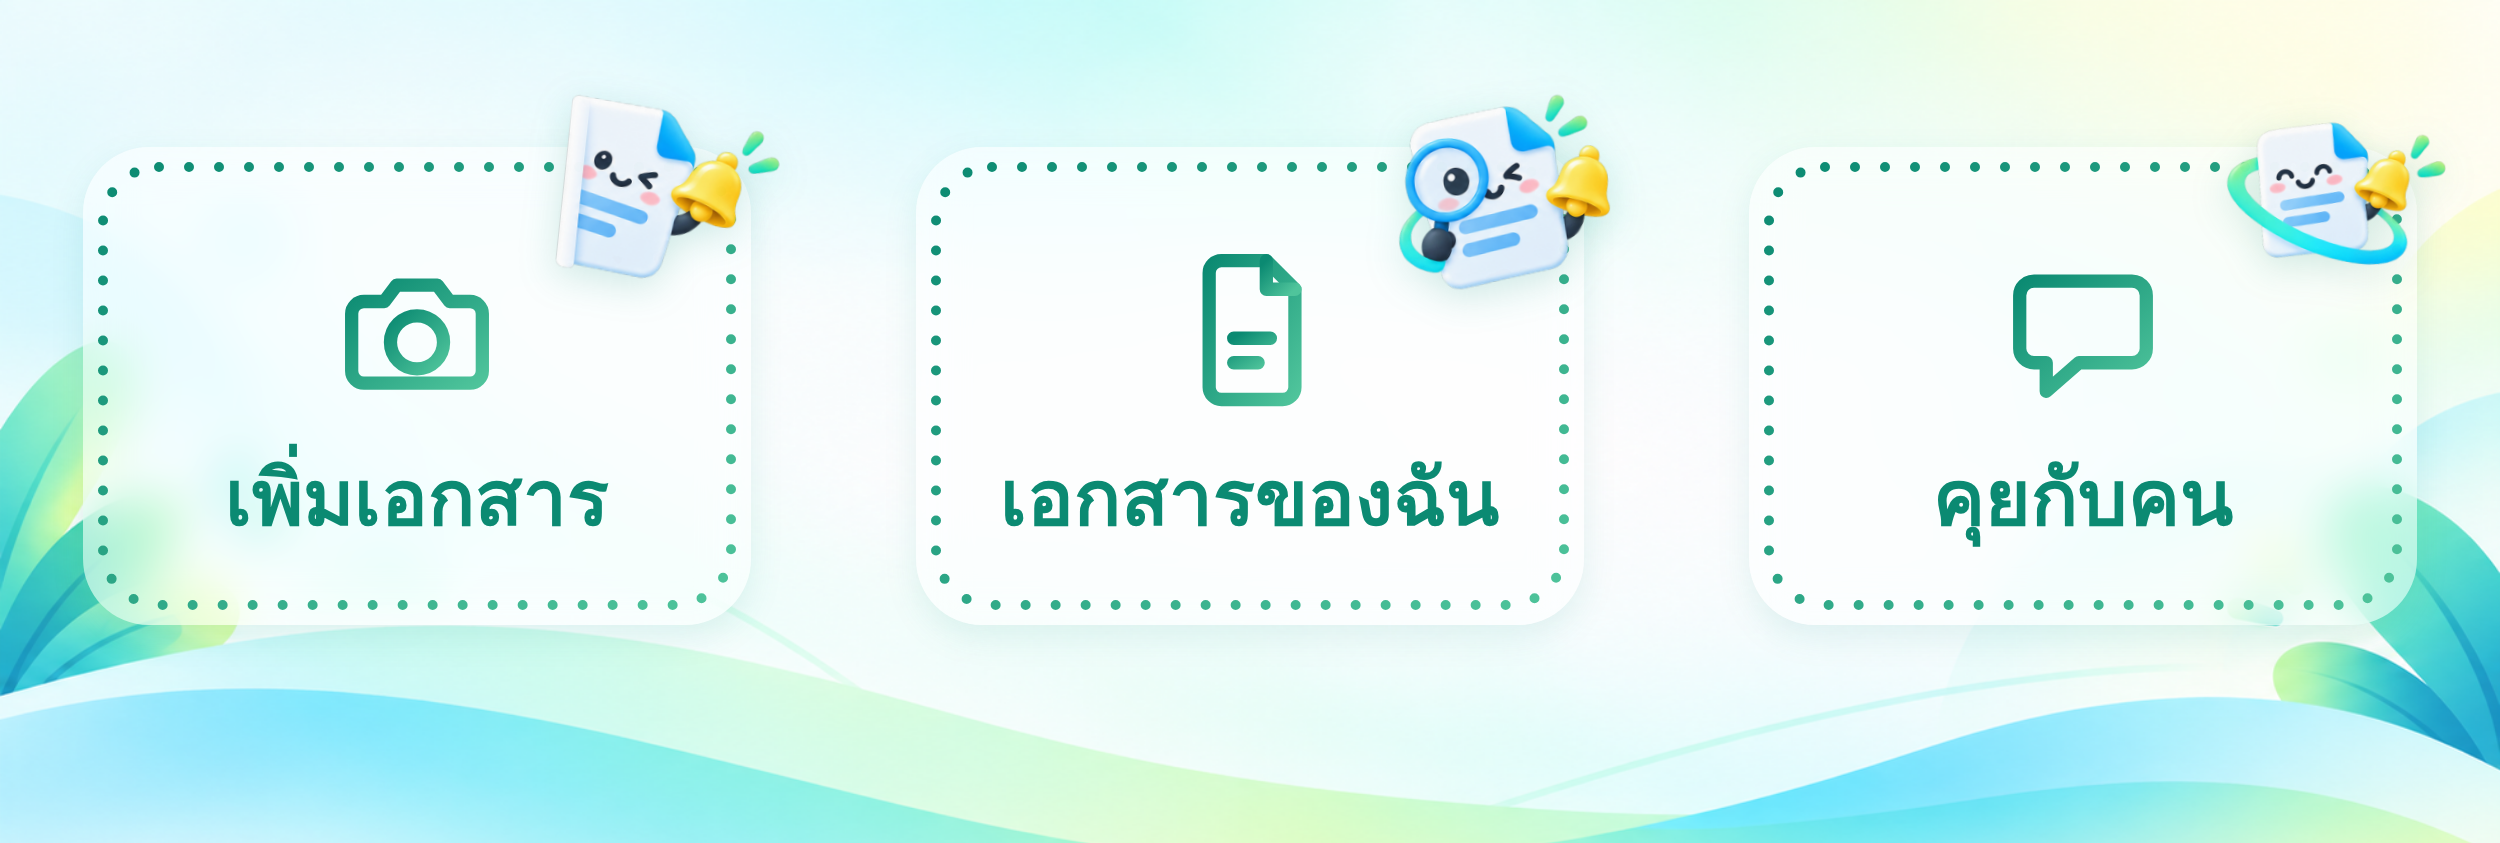
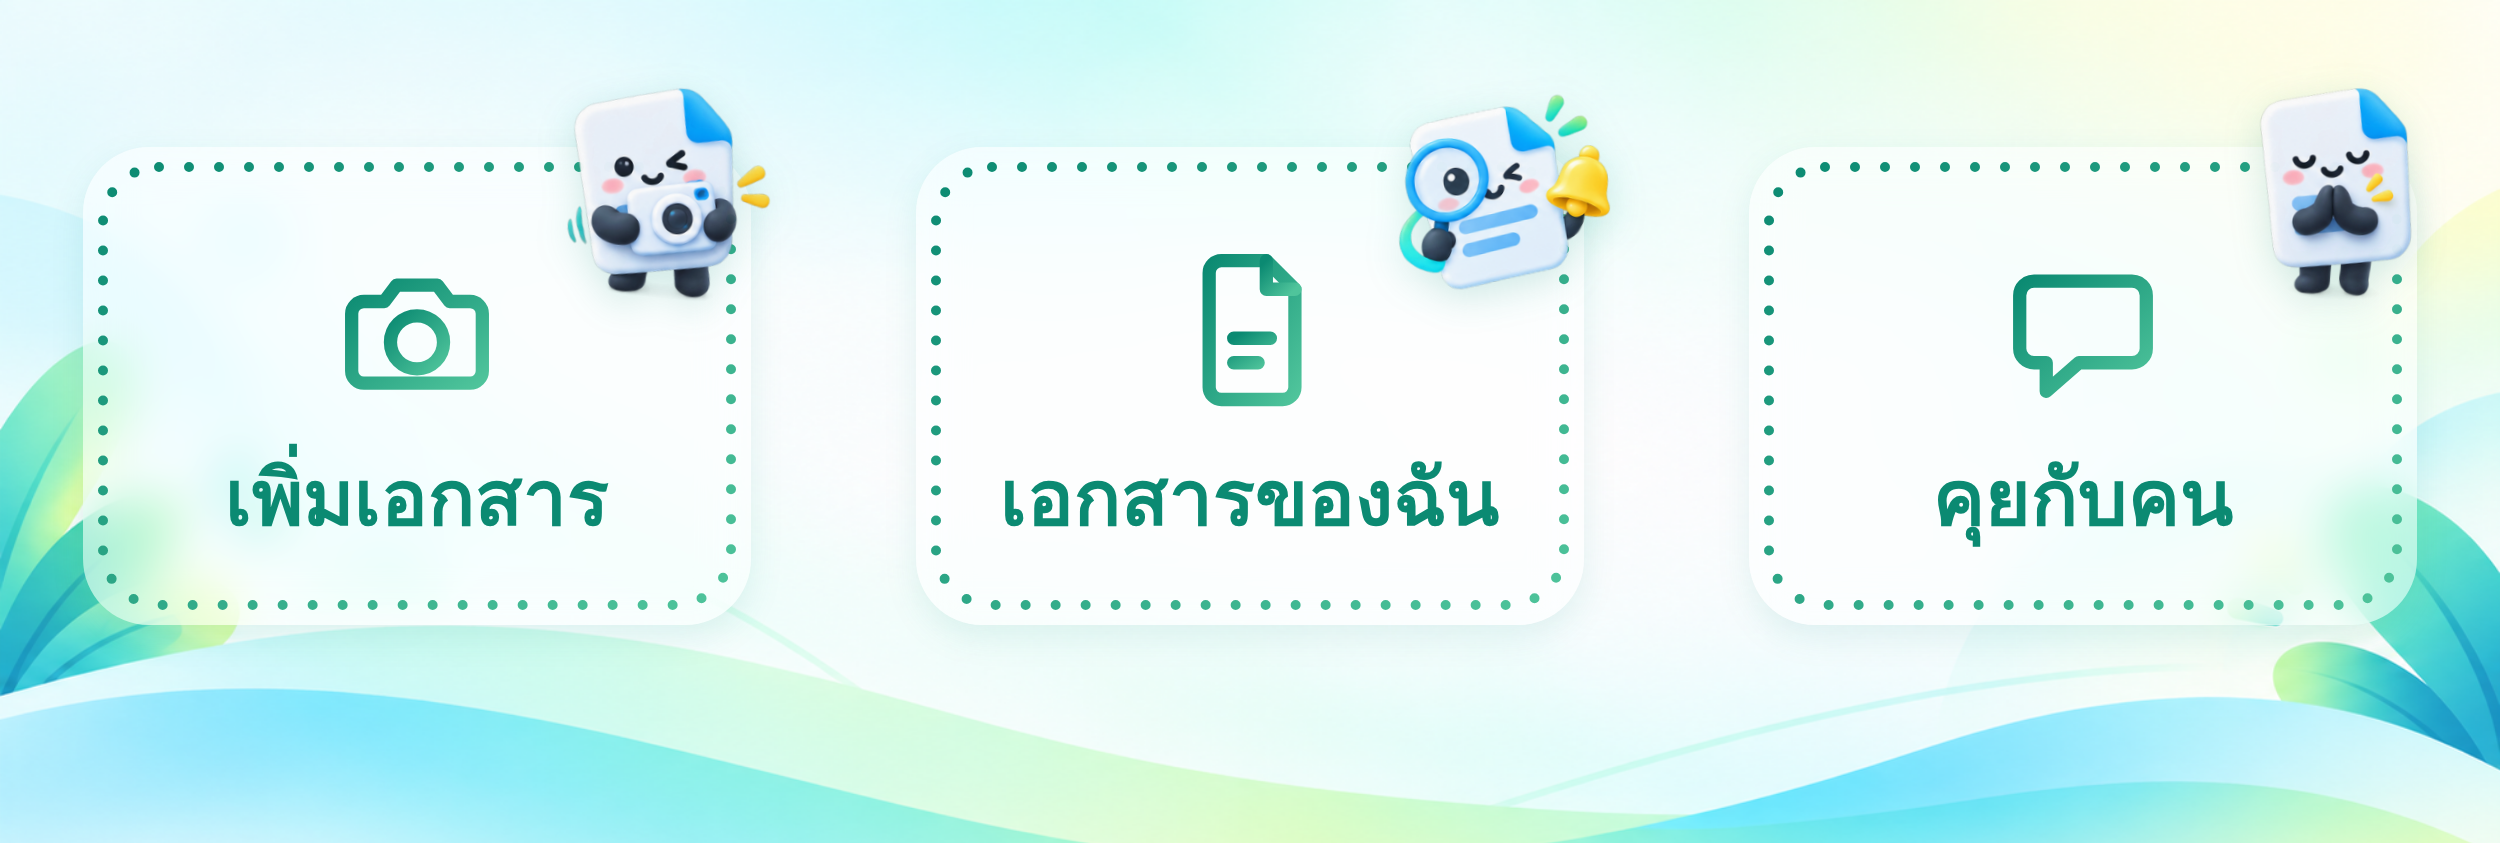
รูป rich menu ที่มีมาสคอตชุดใหม่
Claude-Session: https://claude.ai/code/session_01M7tvfzcRoyzy7X7Yh9MoMw

Changed region(s): [[0.2184, 0.0925, 0.312, 0.3701], [0.8736, 0.0925, 0.9984, 0.3701]]

diff --git a/tools/brand/richmenu.html b/tools/brand/richmenu.html
@@ -87,7 +87,7 @@
       <path d="M22 36h10l6-8h20l6 8h10a6 6 0 0 1 6 6v28a6 6 0 0 1-6 6H22a6 6 0 0 1-6-6V42a6 6 0 0 1 6-6z"/>
       <circle cx="48" cy="56" r="13"/>
     </svg>
-    <img class="mascot" src="../../public/mascot/06-peek.png" alt="">
+    <img class="mascot" src="../../public/mascot/20-camera.png" alt="">
     <div class="label">เพิ่มเอกสาร</div>
   </div>
 </div>
@@ -121,7 +121,7 @@
          stroke-linecap="round" stroke-linejoin="round">
       <path d="M24 26h48a7 7 0 0 1 7 7v26a7 7 0 0 1-7 7H46L30 80V66h-6a7 7 0 0 1-7-7V33a7 7 0 0 1 7-7z"/>
     </svg>
-    <img class="mascot" src="../../public/mascot/01-wave.png" alt="">
+    <img class="mascot" src="../../public/mascot/16-wai.png" alt="">
     <div class="label">คุยกับคน</div>
   </div>
 </div>
